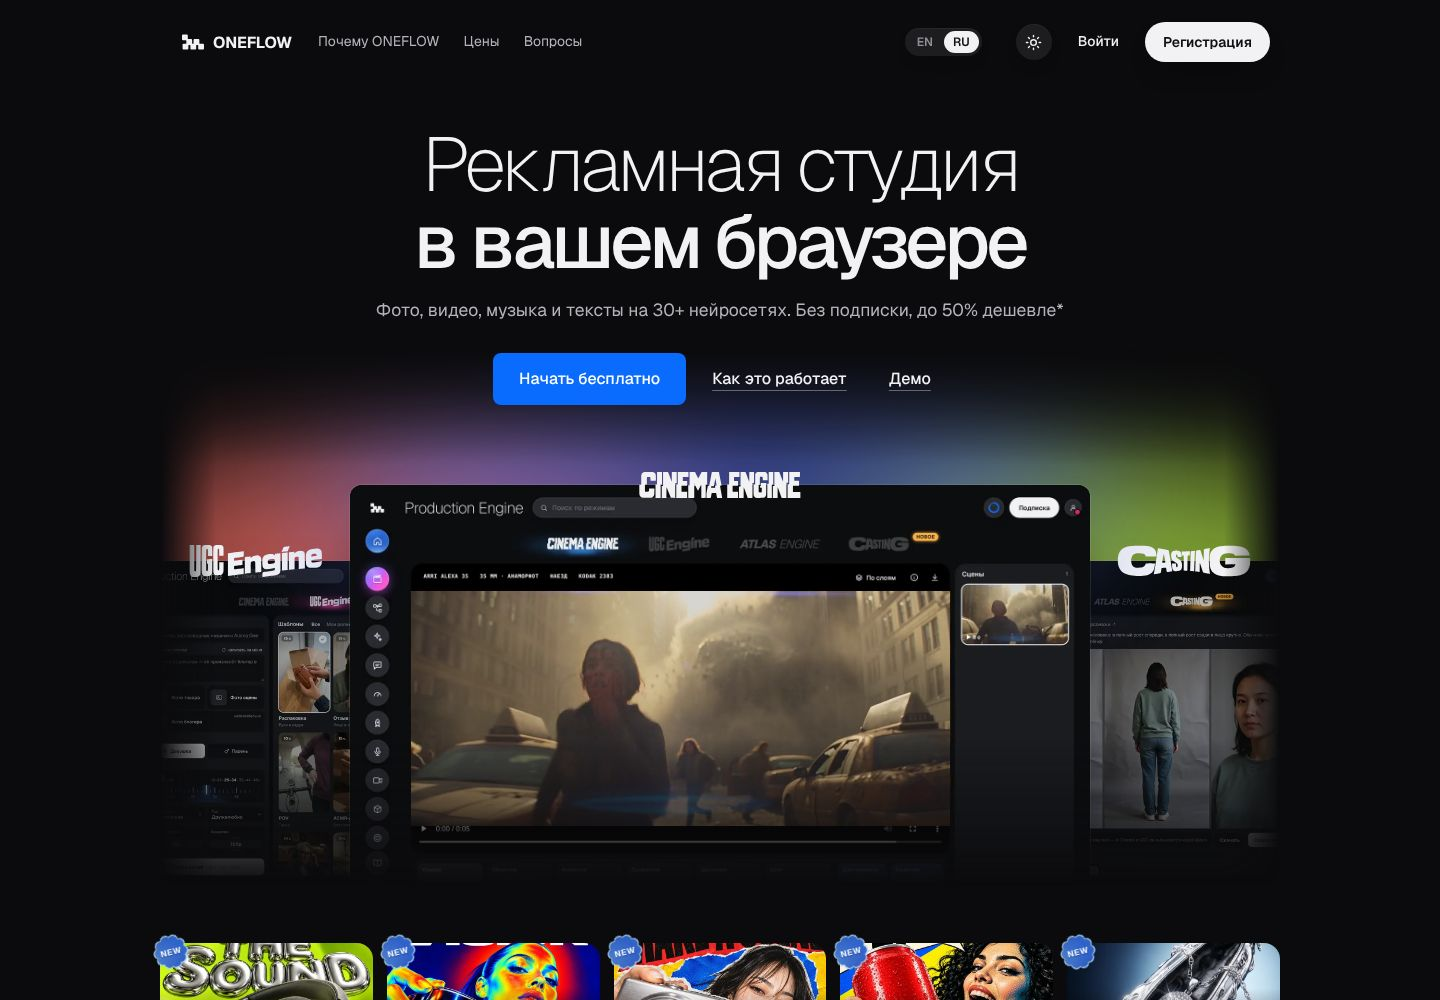
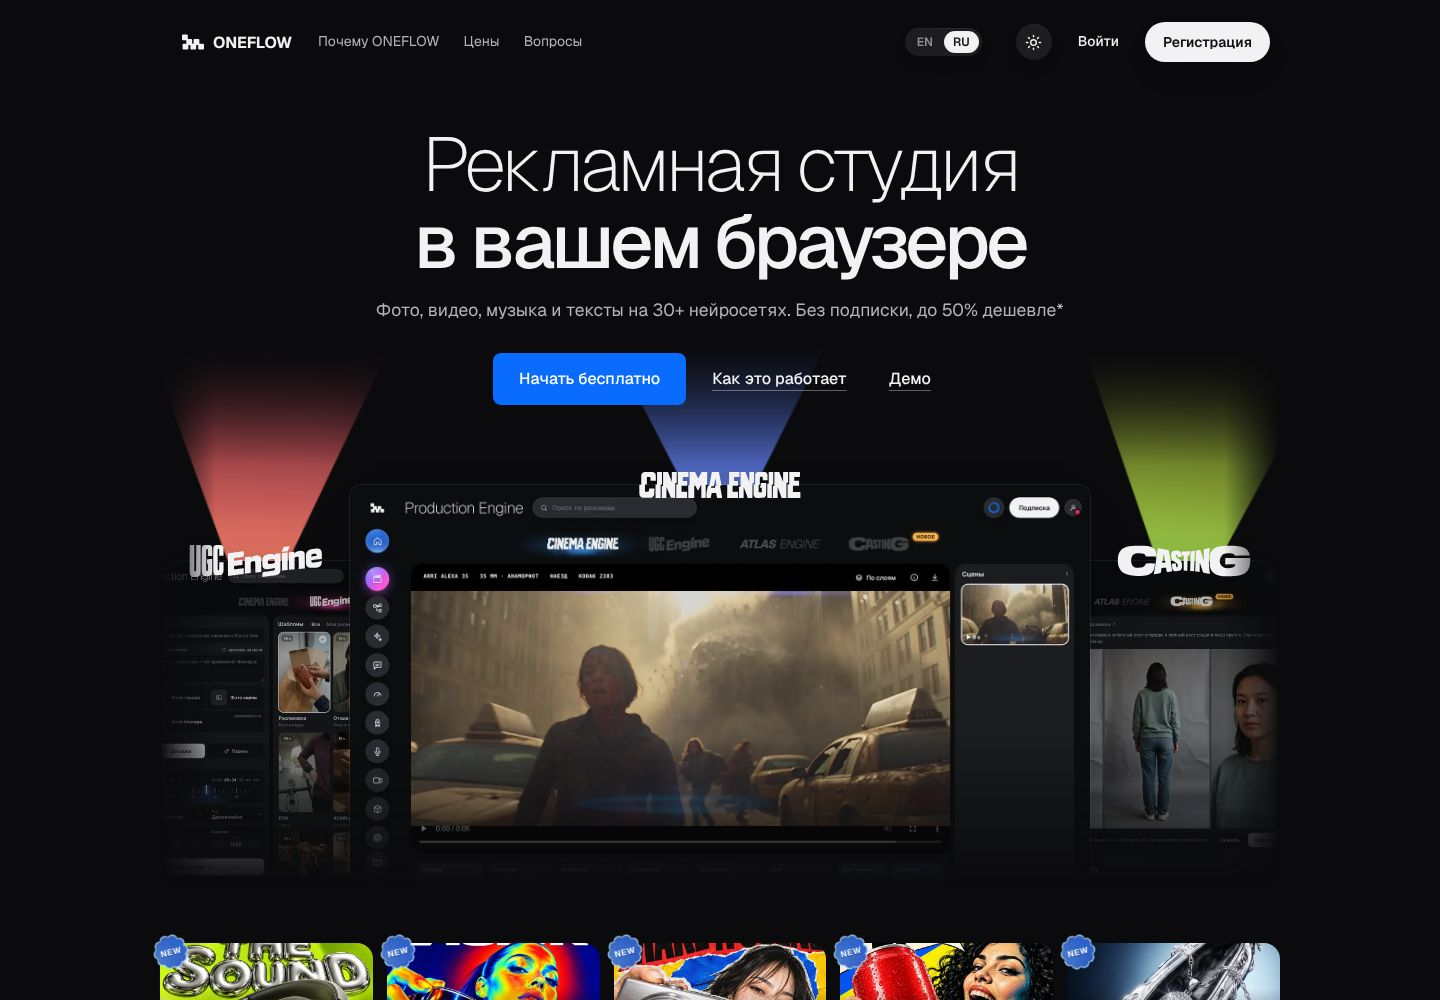
Hero draft: the glow as three cones of light
Claude-Session: https://claude.ai/code/session_018a2KjtpEKLUTJU5P3jAt1D

diff --git a/landing/hero_draft/hero.css b/landing/hero_draft/hero.css
@@ -54,19 +54,22 @@ html[lang] .hero.hq35 .acts .btn.p:hover { background: #2a80ff; }
 html[lang] .hero.hq35 .acts .btn.g { background: transparent; color: #f2f2f4; padding: 0 16px; backdrop-filter: none; -webkit-backdrop-filter: none; text-decoration: underline; text-underline-offset: 6px; text-decoration-thickness: 1px; text-decoration-color: rgba(255,255,255,.35); }
 html[lang] .hero.hq35 .acts .btn.g:hover { text-decoration-color: #fff; }
 /* the light behind the windows (the owner, 2026-11-20): never cut by an edge — the block reaches up behind the
-   buttons and fades out on every side — and it drifts and changes its tint slowly */
+   buttons and fades out on every side */
 html[lang] .hero.hq35 .hq-desk { height: 540px; margin-top: -60px; pointer-events: none;
   -webkit-mask-image: linear-gradient(180deg, transparent 0, #000 120px, #000 73%, transparent 100%), linear-gradient(90deg, transparent 0, #000 5%, #000 95%, transparent 100%);
   mask-image: linear-gradient(180deg, transparent 0, #000 120px, #000 73%, transparent 100%), linear-gradient(90deg, transparent 0, #000 5%, #000 95%, transparent 100%);
   -webkit-mask-composite: source-in; mask-composite: intersect; }
 html[lang] .hero.hq35 .w-c { top: 140px; }
 html[lang] .hero.hq35 .w-l, html[lang] .hero.hq35 .w-r { top: 216px; }
-html[lang] .hero.hq35 .hq-w .hq-blob { left: -4%; right: -4%; top: -96px; height: 210px; background: hsl(var(--h) 100% 62% / .5); filter: blur(64px); animation: hq-drift 11s ease-in-out infinite alternate; will-change: transform, opacity; }
-html[lang] .hero.hq35 .hq-w .hq-blob::after { content: ""; position: absolute; inset: 0; border-radius: 50%; background: hsl(calc(var(--h) + 56) 100% 64% / .6); opacity: 0; animation: hq-tint 7s ease-in-out infinite alternate; }
-html[lang] .hero.hq35 .w-l .hq-blob { animation-delay: -4s; animation-duration: 13s; }
+/* three cones of light, one rising from each window, apart from one another (the owner, 2026-11-20): each
+   sways a little on its foot and changes its tint */
+html[lang] .hero.hq35 .hq-w .hq-blob { left: 22%; right: 22%; top: -214px; height: 250px; border-radius: 0; background: linear-gradient(0deg, hsl(var(--h) 100% 66% / .95) 0, hsl(var(--h) 100% 62% / .5) 45%, hsl(var(--h) 100% 60% / 0) 100%); -webkit-clip-path: polygon(44% 100%, 56% 100%, 100% 0, 0 0); clip-path: polygon(44% 100%, 56% 100%, 100% 0, 0 0); filter: blur(28px); transform-origin: 50% 100%; animation: hq-sway 9s ease-in-out infinite alternate; will-change: transform, opacity; }
+html[lang] .hero.hq35 .hq-w .hq-blob::after { content: ""; position: absolute; inset: 0; background: linear-gradient(0deg, hsl(calc(var(--h) + 56) 100% 68% / .95) 0, hsl(calc(var(--h) + 56) 100% 64% / .5) 45%, hsl(calc(var(--h) + 56) 100% 60% / 0) 100%); opacity: 0; animation: hq-tint 7s ease-in-out infinite alternate; }
+html[lang] .hero.hq35 .w-c .hq-blob { left: 30%; right: 30%; }
+html[lang] .hero.hq35 .w-l .hq-blob { left: 6%; right: 46%; animation-delay: -4s; animation-duration: 11s; }
 html[lang] .hero.hq35 .w-l .hq-blob::after { animation-delay: -2.5s; }
-html[lang] .hero.hq35 .w-r .hq-blob { animation-delay: -8s; animation-duration: 15s; }
+html[lang] .hero.hq35 .w-r .hq-blob { left: 46%; right: 6%; animation-delay: -7s; animation-duration: 13s; }
 html[lang] .hero.hq35 .w-r .hq-blob::after { animation-delay: -5s; }
-@keyframes hq-drift { 0% { transform: translate(-9%, 6px) scale(.9, .92); opacity: .7; } 50% { transform: translate(5%, -10px) scale(1.08, 1.12); opacity: 1; } 100% { transform: translate(10%, 4px) scale(.96, 1); opacity: .8; } }
+@keyframes hq-sway { 0% { transform: rotate(-7deg) scaleY(.92); opacity: .65; } 50% { transform: rotate(2deg) scaleY(1.06); opacity: 1; } 100% { transform: rotate(7deg) scaleY(.96); opacity: .75; } }
 @keyframes hq-tint { 0% { opacity: 0; } 100% { opacity: 1; } }
 @media (prefers-reduced-motion: reduce) { html[lang] .hero.hq35 .hq-w .hq-blob, html[lang] .hero.hq35 .hq-w .hq-blob::after { animation: none; } }

diff --git a/landing/hero_draft/README.md b/landing/hero_draft/README.md
@@ -22,8 +22,9 @@
 Кнопок три (20.11.2026, стиль C из `button-styles.png`): синяя «Начать бесплатно» и две подчёркнутые
 текстовые — «Как это работает» и справа «Демо» (`/app?demo=1`).
 
-Свечение за окнами (20.11.2026) нигде не обрезается: блок окон заходит вверх под кнопки и гаснет по всем
-краям; пятна медленно плывут и меняют оттенок (при «уменьшить движение» стоят на месте).
+Свечение за окнами (20.11.2026) — три отдельных конуса света, по одному над каждым окном, а не сплошная
+полоса. Они нигде не обрезаются краем блока, слегка покачиваются и меняют оттенок (при «уменьшить движение»
+стоят на месте).
 
 ## Не решено
 
